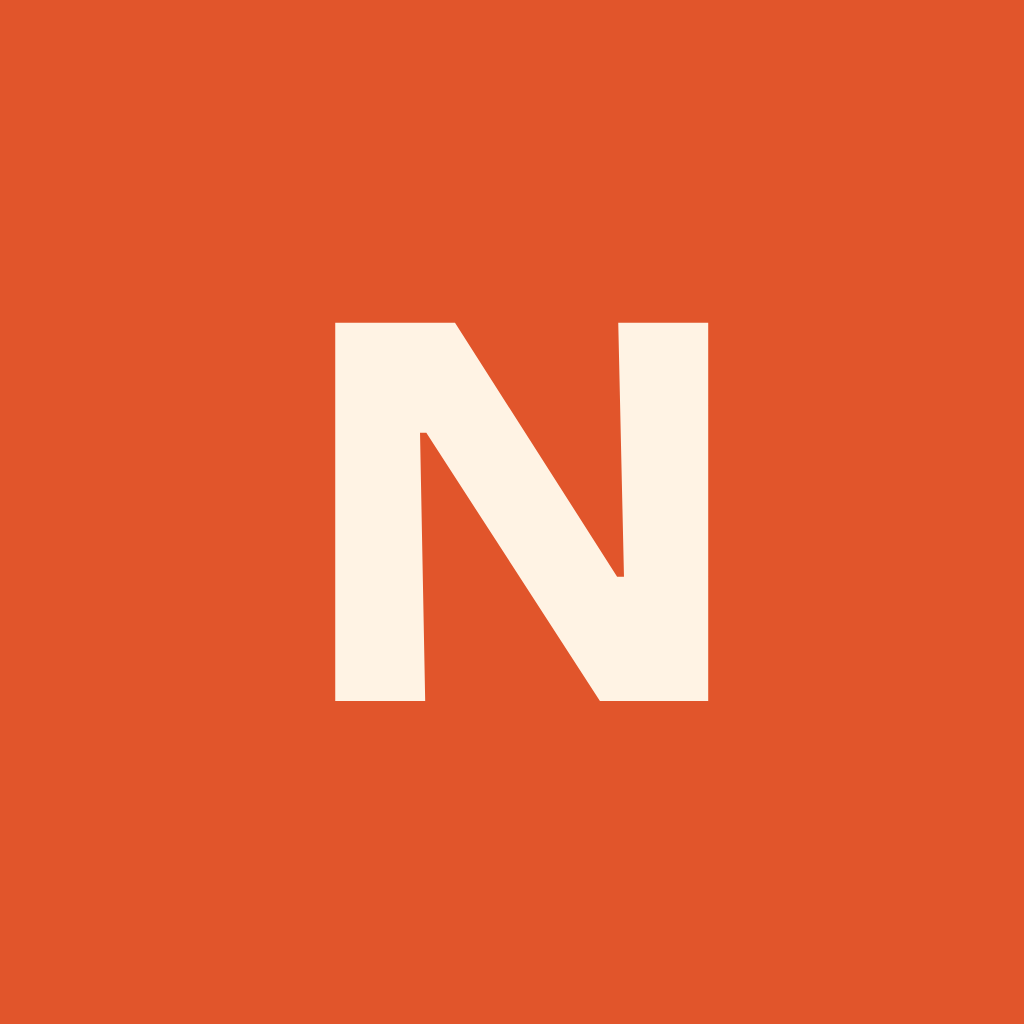
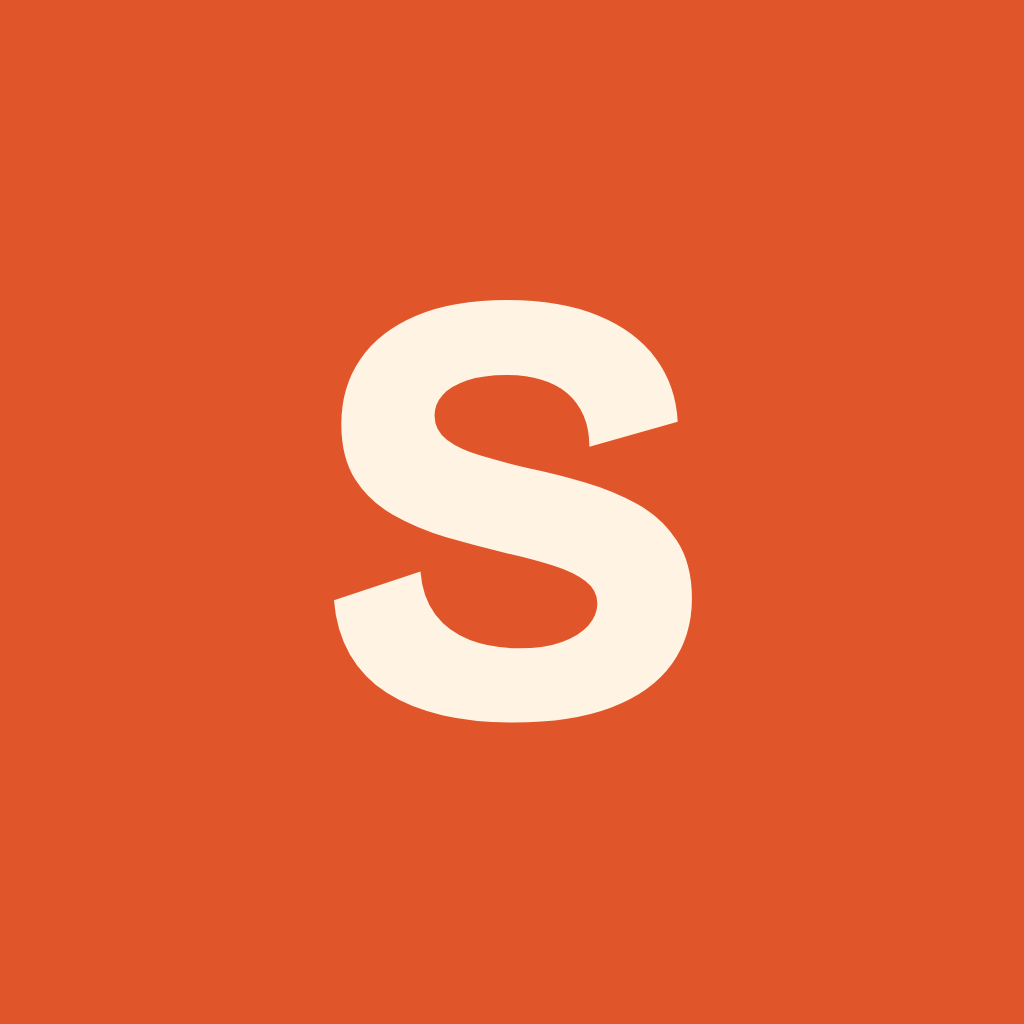
Rename the app to Savora
"Nourish" is already used by a well-funded US nutrition company and by
several calorie apps on both stores, so the product is renamed.

- APP_NAME, every in-app string, the notification badge letter and the
  e2e suite now say Savora.
- app.json: name, slug, web manifest name and the iOS/Android bundle
  identifiers (com.shahjahaninnovative.savora).
- Icons regenerated with an "S" mark in the same brand colours.
- Store listing uses "Savora: Food & Fitness Diary"; the release
  checklist replaces the rename blocker with a trademark-check item.
- The saved-profile storage key is renamed, which resets any profile
  stored by an earlier build. Acceptable before launch.

The repository, the nourish/ directory and the /Nourish Pages base path
are unchanged: they follow the GitHub repository name, not the product.

Verified 75/75 on the Netlify build after the rename.

Claude-Session: https://claude.ai/code/session_011ms1cFRU2xAwuEjAH2heWf

Changed region(s): [[0.3125, 0.2812, 0.7188, 0.7188]]

diff --git a/nourish/src/data.ts b/nourish/src/data.ts
@@ -95,10 +95,10 @@ const RAW_RECIPES: Omit<Recipe, 'allergens'>[] = [
 export const RECIPES: Recipe[] = RAW_RECIPES.map((r) => ({ ...r, allergens: RECIPE_ALLERGENS[r.name] || [] }));
 
 export const QUOTES = [
-  { t: 'You do not need a perfect plate. You need the next honest one.', by: 'Nourish · daily' },
-  { t: 'Dal before dessert is not deprivation. It is sequencing.', by: 'Nourish · daily' },
-  { t: 'The roti you skip in anger comes back at midnight. Eat properly instead.', by: 'Nourish · daily' },
-  { t: 'Twelve days logged. Consistency is quietly beating intensity again.', by: 'Nourish · daily' },
+  { t: 'You do not need a perfect plate. You need the next honest one.', by: 'Savora · daily' },
+  { t: 'Dal before dessert is not deprivation. It is sequencing.', by: 'Savora · daily' },
+  { t: 'The roti you skip in anger comes back at midnight. Eat properly instead.', by: 'Savora · daily' },
+  { t: 'Twelve days logged. Consistency is quietly beating intensity again.', by: 'Savora · daily' },
 ];
 
 export const GOAL_LIST: { key: string; sub: string; icon: string }[] = [
@@ -182,7 +182,7 @@ export const MEALS = [
     { name: 'Samosa', portion: '1 piece', kcal: '130' },
   ] },
   { name: 'Dinner', icon: '🌙', kcal: 'planned', items: [
-    { name: 'Suggested: shakshuka + fattoush', portion: 'Nourish pick · 38 g protein', kcal: '~450' },
+    { name: 'Suggested: shakshuka + fattoush', portion: 'Savora pick · 38 g protein', kcal: '~450' },
     { name: 'Alt: seekh kebab + salad', portion: '30 g protein', kcal: '~620' },
     { name: 'Alt: Japanese salmon donburi', portion: '34 g protein · omega-3', kcal: '~412' },
   ] },
@@ -242,17 +242,17 @@ export const CONNECTED_APPS = [
 ];
 
 export const WEEK_NOTES = [
-  { icon: '🍛', title: 'Saturdays are your biryani day', body: 'Every Saturday runs ~380 kcal over. Nourish will pre-book the budget on Friday night instead of nagging you after.' },
+  { icon: '🍛', title: 'Saturdays are your biryani day', body: 'Every Saturday runs ~380 kcal over. Savora will pre-book the budget on Friday night instead of nagging you after.' },
   { icon: '🧂', title: 'Sodium spikes track eating out', body: 'Three of four high-sodium days had a restaurant entry. Home karahi runs 40% lower.' },
   { icon: '💪', title: 'Protein trend up', body: 'Averaged 71 g, up from 58 g. Two more curd servings a week hits your 96 g target.' },
 ];
 
 export const AI_FEED = [
   { icon: '🧠', kind: 'Pattern', when: '2m ago', title: 'Protein is trailing again', body: '18 g by 4pm on four of the last five days. A katori of rajma at lunch would close it without touching your calorie budget.', tone: 'amber' as const },
-  { icon: '🧂', kind: 'Label flag', when: '1h ago', title: 'The rusk you scanned has milk solids', body: 'You logged lactose intolerance, so Nourish moved it to your avoid list and suggested ragi khakhra instead.', tone: 'red' as const },
-  { icon: '📷', kind: 'Scan correction', when: 'Yesterday', title: 'Learned your roti size', body: 'You resized roti down twice. Nourish now assumes 6-inch atta roti at 98 kcal for your kitchen.', tone: 'plain' as const },
+  { icon: '🧂', kind: 'Label flag', when: '1h ago', title: 'The rusk you scanned has milk solids', body: 'You logged lactose intolerance, so Savora moved it to your avoid list and suggested ragi khakhra instead.', tone: 'red' as const },
+  { icon: '📷', kind: 'Scan correction', when: 'Yesterday', title: 'Learned your roti size', body: 'You resized roti down twice. Savora now assumes 6-inch atta roti at 98 kcal for your kitchen.', tone: 'plain' as const },
   { icon: '🏃', kind: 'Activity', when: 'Yesterday', title: 'Evening walks are working', body: 'Your 8pm walk shows up on nine of the last ten days and pulled resting heart rate down 3 bpm.', tone: 'green' as const },
-  { icon: '🍛', kind: 'Heads up', when: '2d ago', title: 'Saturday biryani is booked', body: 'Nourish trimmed 120 kcal from Thursday and Friday so today’s plate has room. Eat it guilt-free.', tone: 'plain' as const },
+  { icon: '🍛', kind: 'Heads up', when: '2d ago', title: 'Saturday biryani is booked', body: 'Savora trimmed 120 kcal from Thursday and Friday so today’s plate has room. Eat it guilt-free.', tone: 'plain' as const },
 ];
 
 export const LEFTOVERS = [
@@ -263,7 +263,7 @@ export const LEFTOVERS = [
 ];
 
 export const KITCHEN_ROWS = [
-  { icon: '🥓', name: 'Your roti', value: '98 kcal', learned: 'You resized it down 24 times. Nourish now assumes a 6-inch atta roti, not the 8-inch database default.', conf: 0.94 },
+  { icon: '🥓', name: 'Your roti', value: '98 kcal', learned: 'You resized it down 24 times. Savora now assumes a 6-inch atta roti, not the 8-inch database default.', conf: 0.94 },
   { icon: '🧈', name: 'Ghee hand', value: '0.4 tsp', learned: 'Weekday rotis run dry, Sunday parathas do not. It splits the estimate by day.', conf: 0.88 },
   { icon: '🍲', name: 'Dal consistency', value: 'Thin', learned: 'Your dal photographs thinner than average — 150 kcal a katori, not 180.', conf: 0.91 },
   { icon: '🛢', name: 'Household oil', value: '1.4× base', learned: 'Across 60 home dishes your tarka runs heavier than the reference kitchen.', conf: 0.82 },
@@ -286,7 +286,7 @@ export const PLATES = [
 export const NOTIF_PREVIEW = [
   { when: '8:02 am', title: 'Chai first, protein second?', body: 'You have done this nine mornings running. Two boiled eggs with it and lunch stops feeling like a rescue mission.' },
   { when: '4:40 pm', title: '“The body keeps the receipts.”', body: 'Your quote for today, plus a nudge: 620 kcal left and you are 1,800 steps from closing the ring.' },
-  { when: '9:15 pm', title: 'One roti away from a clean day', body: 'Log dinner and day 13 of the streak is yours. Nourish can hear it if you would rather talk than type.' },
+  { when: '9:15 pm', title: 'One roti away from a clean day', body: 'Log dinner and day 13 of the streak is yours. Savora can hear it if you would rather talk than type.' },
 ];
 
 export const NOTIF_SETTINGS_META: Record<string, string> = {

diff --git a/nourish/src/screens/Home.tsx b/nourish/src/screens/Home.tsx
@@ -96,7 +96,7 @@ export default function Home() {
         <Pressable onPress={() => go('feed')} style={{ padding: 17, borderRadius: 18, backgroundColor: colors.amberBg, borderWidth: 1, borderColor: colors.amberLine }}>
           <View style={{ flexDirection: 'row', alignItems: 'center', gap: 9, marginBottom: 9 }}>
             <Text style={{ fontSize: 15 }}>🧠</Text>
-            <Text style={{ fontFamily: fonts.bodyBold, fontSize: 10.5, letterSpacing: 1, color: 'rgba(25,21,18,.45)' }}>NOURISH AI</Text>
+            <Text style={{ fontFamily: fonts.bodyBold, fontSize: 10.5, letterSpacing: 1, color: 'rgba(25,21,18,.45)' }}>SAVORA AI</Text>
           </View>
           <Text style={{ fontFamily: fonts.bodyBold, fontSize: 14.5, color: colors.ink, marginBottom: 6 }}>Protein is trailing again</Text>
           <Text style={{ fontFamily: fonts.bodyMedium, fontSize: 12.5, lineHeight: 19, color: 'rgba(25,21,18,.6)' }}>18 g by 4pm. A cup of rajma or 150 g curd closes the gap without touching your calories.</Text>
@@ -104,10 +104,10 @@ export default function Home() {
         <Pressable onPress={() => go('feed')} style={{ padding: 17, borderRadius: 18, backgroundColor: colors.redBg, borderWidth: 1, borderColor: colors.redLine }}>
           <View style={{ flexDirection: 'row', alignItems: 'center', gap: 9, marginBottom: 9 }}>
             <Text style={{ fontSize: 15 }}>🧂</Text>
-            <Text style={{ fontFamily: fonts.bodyBold, fontSize: 10.5, letterSpacing: 1, color: 'rgba(25,21,18,.45)' }}>NOURISH AI</Text>
+            <Text style={{ fontFamily: fonts.bodyBold, fontSize: 10.5, letterSpacing: 1, color: 'rgba(25,21,18,.45)' }}>SAVORA AI</Text>
           </View>
           <Text style={{ fontFamily: fonts.bodyBold, fontSize: 14.5, color: colors.ink, marginBottom: 6 }}>Sodium at 118% of target</Text>
-          <Text style={{ fontFamily: fonts.bodyMedium, fontSize: 12.5, lineHeight: 19, color: 'rgba(25,21,18,.6)' }}>The elaichi rusk did most of it. Nourish will flag it next time you scan the pack.</Text>
+          <Text style={{ fontFamily: fonts.bodyMedium, fontSize: 12.5, lineHeight: 19, color: 'rgba(25,21,18,.6)' }}>The elaichi rusk did most of it. Savora will flag it next time you scan the pack.</Text>
         </Pressable>
       </View>
 

diff --git a/nourish/src/screens/Leftover.tsx b/nourish/src/screens/Leftover.tsx
@@ -11,7 +11,7 @@ export default function Leftover() {
     <Screen padBottom={40}>
       <ScreenHeader title="Leftover re-scan" onBack={() => go('home')} />
       <Text style={{ fontFamily: fonts.bodyMedium, fontSize: 13, lineHeight: 20, color: 'rgba(25,21,18,.55)', marginVertical: 10 }}>
-        Every other app charges you for the plate you were served. Nourish charges you for the plate you finished.
+        Every other app charges you for the plate you were served. Savora charges you for the plate you finished.
       </Text>
 
       <View style={{ flexDirection: 'row', gap: 10, marginBottom: 14 }}>
@@ -46,7 +46,7 @@ export default function Leftover() {
 
       <View style={{ padding: 14, paddingHorizontal: 16, borderRadius: 16, backgroundColor: colors.indigoBg, borderWidth: 1, borderColor: colors.indigoLine, marginBottom: 14 }}>
         <Text style={{ fontFamily: fonts.bodyMedium, fontSize: 12.5, lineHeight: 19, color: 'rgba(25,21,18,.65)' }}>
-          This is the third time you've left a roti behind at dinner. Nourish will serve you one fewer in tomorrow's plan.
+          This is the third time you've left a roti behind at dinner. Savora will serve you one fewer in tomorrow's plan.
         </Text>
       </View>
 

diff --git a/nourish/src/screens/Nudges.tsx b/nourish/src/screens/Nudges.tsx
@@ -20,9 +20,9 @@ export default function Nudges() {
           <View key={n.title} style={{ padding: 15, paddingHorizontal: 16, borderRadius: 18, backgroundColor: '#fff', borderWidth: 1, borderColor: colors.lineSoft }}>
             <View style={{ flexDirection: 'row', alignItems: 'center', gap: 9, marginBottom: 9 }}>
               <View style={{ width: 22, height: 22, borderRadius: 7, backgroundColor: colors.accent, alignItems: 'center', justifyContent: 'center' }}>
-                <Text style={{ fontFamily: fonts.bodyBold, fontSize: 10, color: '#fff' }}>N</Text>
+                <Text style={{ fontFamily: fonts.bodyBold, fontSize: 10, color: '#fff' }}>S</Text>
               </View>
-              <Text style={{ flex: 1, fontFamily: fonts.bodyBold, fontSize: 11, color: 'rgba(25,21,18,.5)' }}>NOURISH</Text>
+              <Text style={{ flex: 1, fontFamily: fonts.bodyBold, fontSize: 11, color: 'rgba(25,21,18,.5)' }}>SAVORA</Text>
               <Text style={{ fontFamily: fonts.bodyMedium, fontSize: 11, color: 'rgba(25,21,18,.35)' }}>{n.when}</Text>
             </View>
             <Text style={{ fontFamily: fonts.bodyBold, fontSize: 13.5, lineHeight: 18, color: colors.ink }}>{n.title}</Text>

diff --git a/nourish/e2e/full-check.js b/nourish/e2e/full-check.js
@@ -171,7 +171,7 @@ const body = () => page.locator('body').innerText();
   await check('31. Plate calibration', () => viaMe('Plate calibration', 'Reference found'));
   await check('32. Plate select', async () => { await tap('Dinner plate', false); return 'selected'; });
   await check('33. Permissions from Me', () => viaMe('Camera, mic & alerts', 'Three things'));
-  await check('34. AI feed', () => viaMe('What Nourish noticed', 'Label flag'));
+  await check('34. AI feed', () => viaMe('What Savora noticed', 'Label flag'));
   await check('35. Kitchen fingerprint', () => viaMe('Kitchen fingerprint', 'Accuracy on your food'));
   await check('36. Allergy shield', () => viaMe('Allergy shield card', 'Do not serve me'));
   await check('37. LOGIC: shield reflects allergies', async () => {

diff --git a/nourish/src/screens/Me.tsx b/nourish/src/screens/Me.tsx
@@ -13,7 +13,7 @@ export default function Me() {
     { icon: '🪞', name: 'Future you', meta: '12-week trajectory', go: 'future' },
     { icon: '◉', name: 'Plate calibration', meta: `${s.plateCm} cm`, go: 'calib' },
     { icon: '🔐', name: 'Camera, mic & alerts', meta: `${d.permCount} of 3 on`, go: 'perm' },
-    { icon: '🧠', name: 'What Nourish noticed', meta: '4 new', go: 'feed' },
+    { icon: '🧠', name: 'What Savora noticed', meta: '4 new', go: 'feed' },
     { icon: '🔬', name: 'Kitchen fingerprint', meta: '94% accurate', go: 'kitchen' },
     { icon: '🛡', name: 'Allergy shield card', meta: `${s.allergies.length} listed`, go: 'shield' },
     { icon: '🧪', name: 'Micronutrient history', meta: '30 days', go: 'micros' },

diff --git a/nourish/src/screens/Voice.tsx b/nourish/src/screens/Voice.tsx
@@ -95,7 +95,7 @@ export default function Voice() {
               </View>
               <View style={{ padding: 14, borderRadius: 15, backgroundColor: 'rgba(245,165,36,.14)', borderWidth: 1, borderColor: 'rgba(245,165,36,.3)', marginTop: 12 }}>
                 <Text style={{ fontFamily: fonts.bodyMedium, fontSize: 12.5, lineHeight: 19, color: '#FFD79A' }}>
-                  You said "chai" without sugar detail — Nourish used your usual: one spoon, full-fat milk. Tap it to change.
+                  You said "chai" without sugar detail — Savora used your usual: one spoon, full-fat milk. Tap it to change.
                 </Text>
               </View>
             </View>

diff --git a/nourish/src/screens/Kitchen.tsx b/nourish/src/screens/Kitchen.tsx
@@ -11,7 +11,7 @@ export default function Kitchen() {
     <Screen padBottom={40}>
       <ScreenHeader title="Kitchen fingerprint" onBack={() => go('me')} />
       <Text style={{ fontFamily: fonts.bodyMedium, fontSize: 13, lineHeight: 20, color: 'rgba(25,21,18,.55)', marginVertical: 10 }}>
-        A generic database says a roti is 120 kcal. Yours isn't. Every correction you make teaches Nourish your kitchen.
+        A generic database says a roti is 120 kcal. Yours isn't. Every correction you make teaches Savora your kitchen.
       </Text>
 
       <View style={{ padding: 20, borderRadius: 22, backgroundColor: colors.ink, marginBottom: 14 }}>

diff --git a/nourish/src/screens/Permissions.tsx b/nourish/src/screens/Permissions.tsx
@@ -15,7 +15,7 @@ export default function Permissions() {
         Three things{'\n'}and we're in.
       </Text>
       <Text style={{ fontFamily: fonts.bodyMedium, fontSize: 14.5, lineHeight: 22, color: 'rgba(25,21,18,.6)', marginBottom: 24 }}>
-        Nourish only asks for what it actually uses. Say no to any of them and the rest still works.
+        Savora only asks for what it actually uses. Say no to any of them and the rest still works.
       </Text>
       <View style={{ gap: 10 }}>
         {PERMISSIONS_META.map((p) => {

diff --git a/nourish/src/screens/Feed.tsx b/nourish/src/screens/Feed.tsx
@@ -16,7 +16,7 @@ export default function Feed() {
   const { go } = useApp();
   return (
     <Screen>
-      <ScreenHeader title="What Nourish noticed" onBack={() => go('home')} />
+      <ScreenHeader title="What Savora noticed" onBack={() => go('home')} />
       <Text style={{ fontFamily: fonts.bodyMedium, fontSize: 13, lineHeight: 20, color: 'rgba(25,21,18,.55)', marginVertical: 10 }}>
         No chatbot. Just the handful of things worth knowing, written the moment we spot them.
       </Text>

diff --git a/nourish/src/brand.ts b/nourish/src/brand.ts
@@ -1,6 +1,6 @@
 // Single place for product identity, so a rename is a one-file change here
 // plus the name fields in app.json.
-export const APP_NAME = 'Nourish';
+export const APP_NAME = 'Savora';
 
 // While true, the app shows a visible "sample data" marker. Food recognition,
 // voice parsing and the insight feed are simulated in this build; shipping it

diff --git a/nourish/src/store.tsx b/nourish/src/store.tsx
@@ -36,7 +36,7 @@ type State = {
 };
 
 const BURNED = 340;
-const STORE_KEY = 'nourish.profile.v1';
+const STORE_KEY = 'savora.profile.v1';
 const PERSISTED: (keyof State)[] = [
   'sex', 'age', 'hCm', 'wKg', 'goal', 'act', 'allergies', 'region', 'units',
   'eatenBase', 'permOn', 'notifOn', 'plateCm', 'onboarded', 'workouts',
